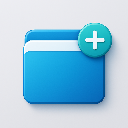
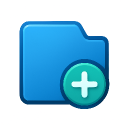
增强标签组管理功能：添加重命名按钮，锁定的标签组不能重命名；优化搜索功能，更新文档和图标资源

diff --git a/src/components/tabs/TabGroup.tsx b/src/components/tabs/TabGroup.tsx
@@ -140,8 +140,7 @@ export const TabGroup: React.FC<TabGroupProps> = ({ group }) => {
             />
           ) : (
             <h3
-              className="text-base font-medium cursor-pointer text-gray-900 transition-material"
-              onDoubleClick={() => !group.isLocked && setIsEditing(true)}
+              className="text-base font-medium text-gray-900 transition-material"
             >
               {group.name}
             </h3>
@@ -157,6 +156,16 @@ export const TabGroup: React.FC<TabGroupProps> = ({ group }) => {
             title="打开所有标签页"
           >
             恢复全部
+          </button>
+          <button
+            onClick={() => !group.isLocked && setIsEditing(true)}
+            className={`p-1 rounded hover:bg-gray-100 transition-material ${group.isLocked ? 'text-gray-300 cursor-not-allowed' : 'text-gray-500 hover:text-primary-600'}`}
+            title={group.isLocked ? '锁定的标签组不能重命名' : '重命名标签组'}
+            disabled={group.isLocked}
+          >
+            <svg xmlns="http://www.w3.org/2000/svg" className="h-4 w-4" viewBox="0 0 20 20" fill="currentColor">
+              <path d="M13.586 3.586a2 2 0 112.828 2.828l-.793.793-2.828-2.828.793-.793zM11.379 5.793L3 14.172V17h2.828l8.38-8.379-2.83-2.828z" />
+            </svg>
           </button>
           <button
             onClick={handleToggleLock}

diff --git a/README.md b/README.md
@@ -77,13 +77,17 @@ npm run build
 
 ### 新功能
 
+- **标签组管理增强**：
+  - 添加了标签组重命名按钮，使重命名操作更直观
+  - 锁定的标签组不能重命名，需要先解锁
+
 - **搜索功能优化**：
-  - 将“搜索标签组”改为“搜索标签”
+  - 将"搜索标签组"改为"搜索标签"
   - 搜索结果现在只显示匹配的标签，而不是显示整个标签组
   - 每个搜索结果显示标签所属的标签组
 
 - **重复标签页处理**：
-  - 添加了“允许保存重复的标签页”设置选项
+  - 添加了"允许保存重复的标签页"设置选项
   - 默认情况下，保存标签页时会过滤掉重复的 URL，只保留最新的一个
 
 ### 问题修复

diff --git a/DOCUMENTATION.md b/DOCUMENTATION.md
@@ -16,8 +16,8 @@ OneTab Plus 是一个 Chrome 浏览器扩展，用于高效管理和组织浏览
 
 - **标签组管理**：
   - 创建标签组
-  - 重命名标签组
-  - 锁定/解锁标签组（锁定后的标签组在恢复标签页时不会被删除）
+  - 重命名标签组（点击重命名按钮或双击标签组名称）
+  - 锁定/解锁标签组（锁定后的标签组在恢复标签页时不会被删除，也不能重命名）
   - 删除标签组
 
 - **标签页操作**：
